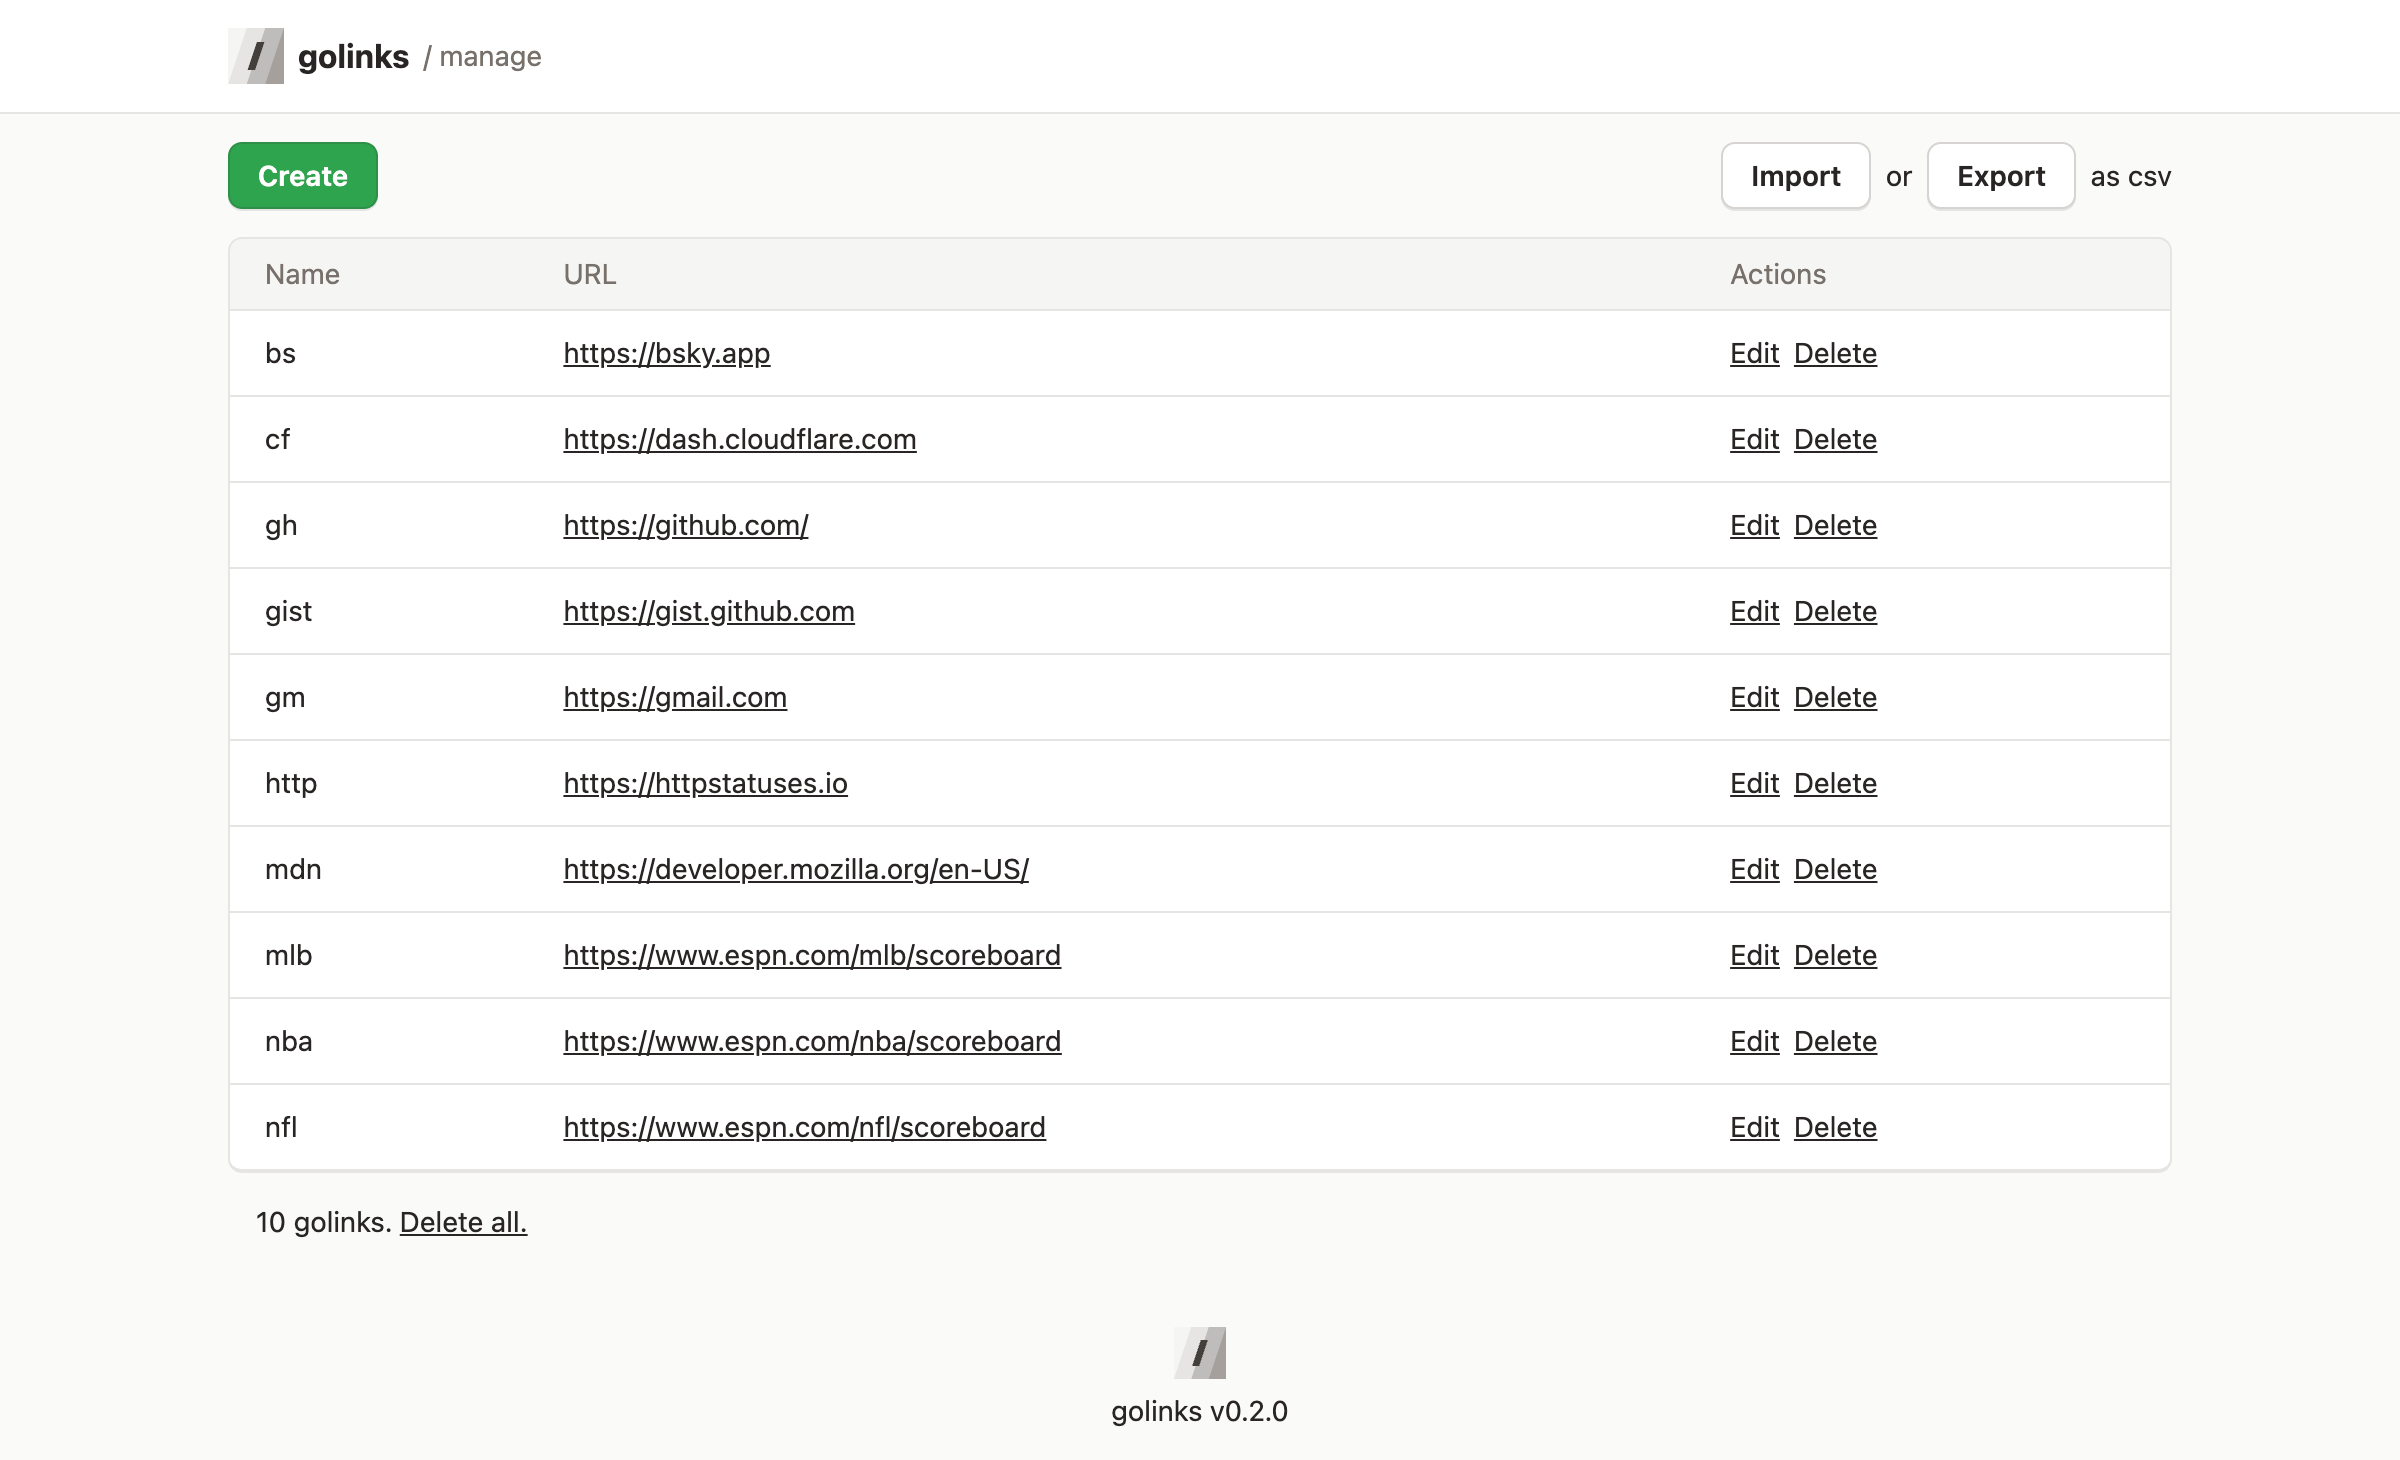
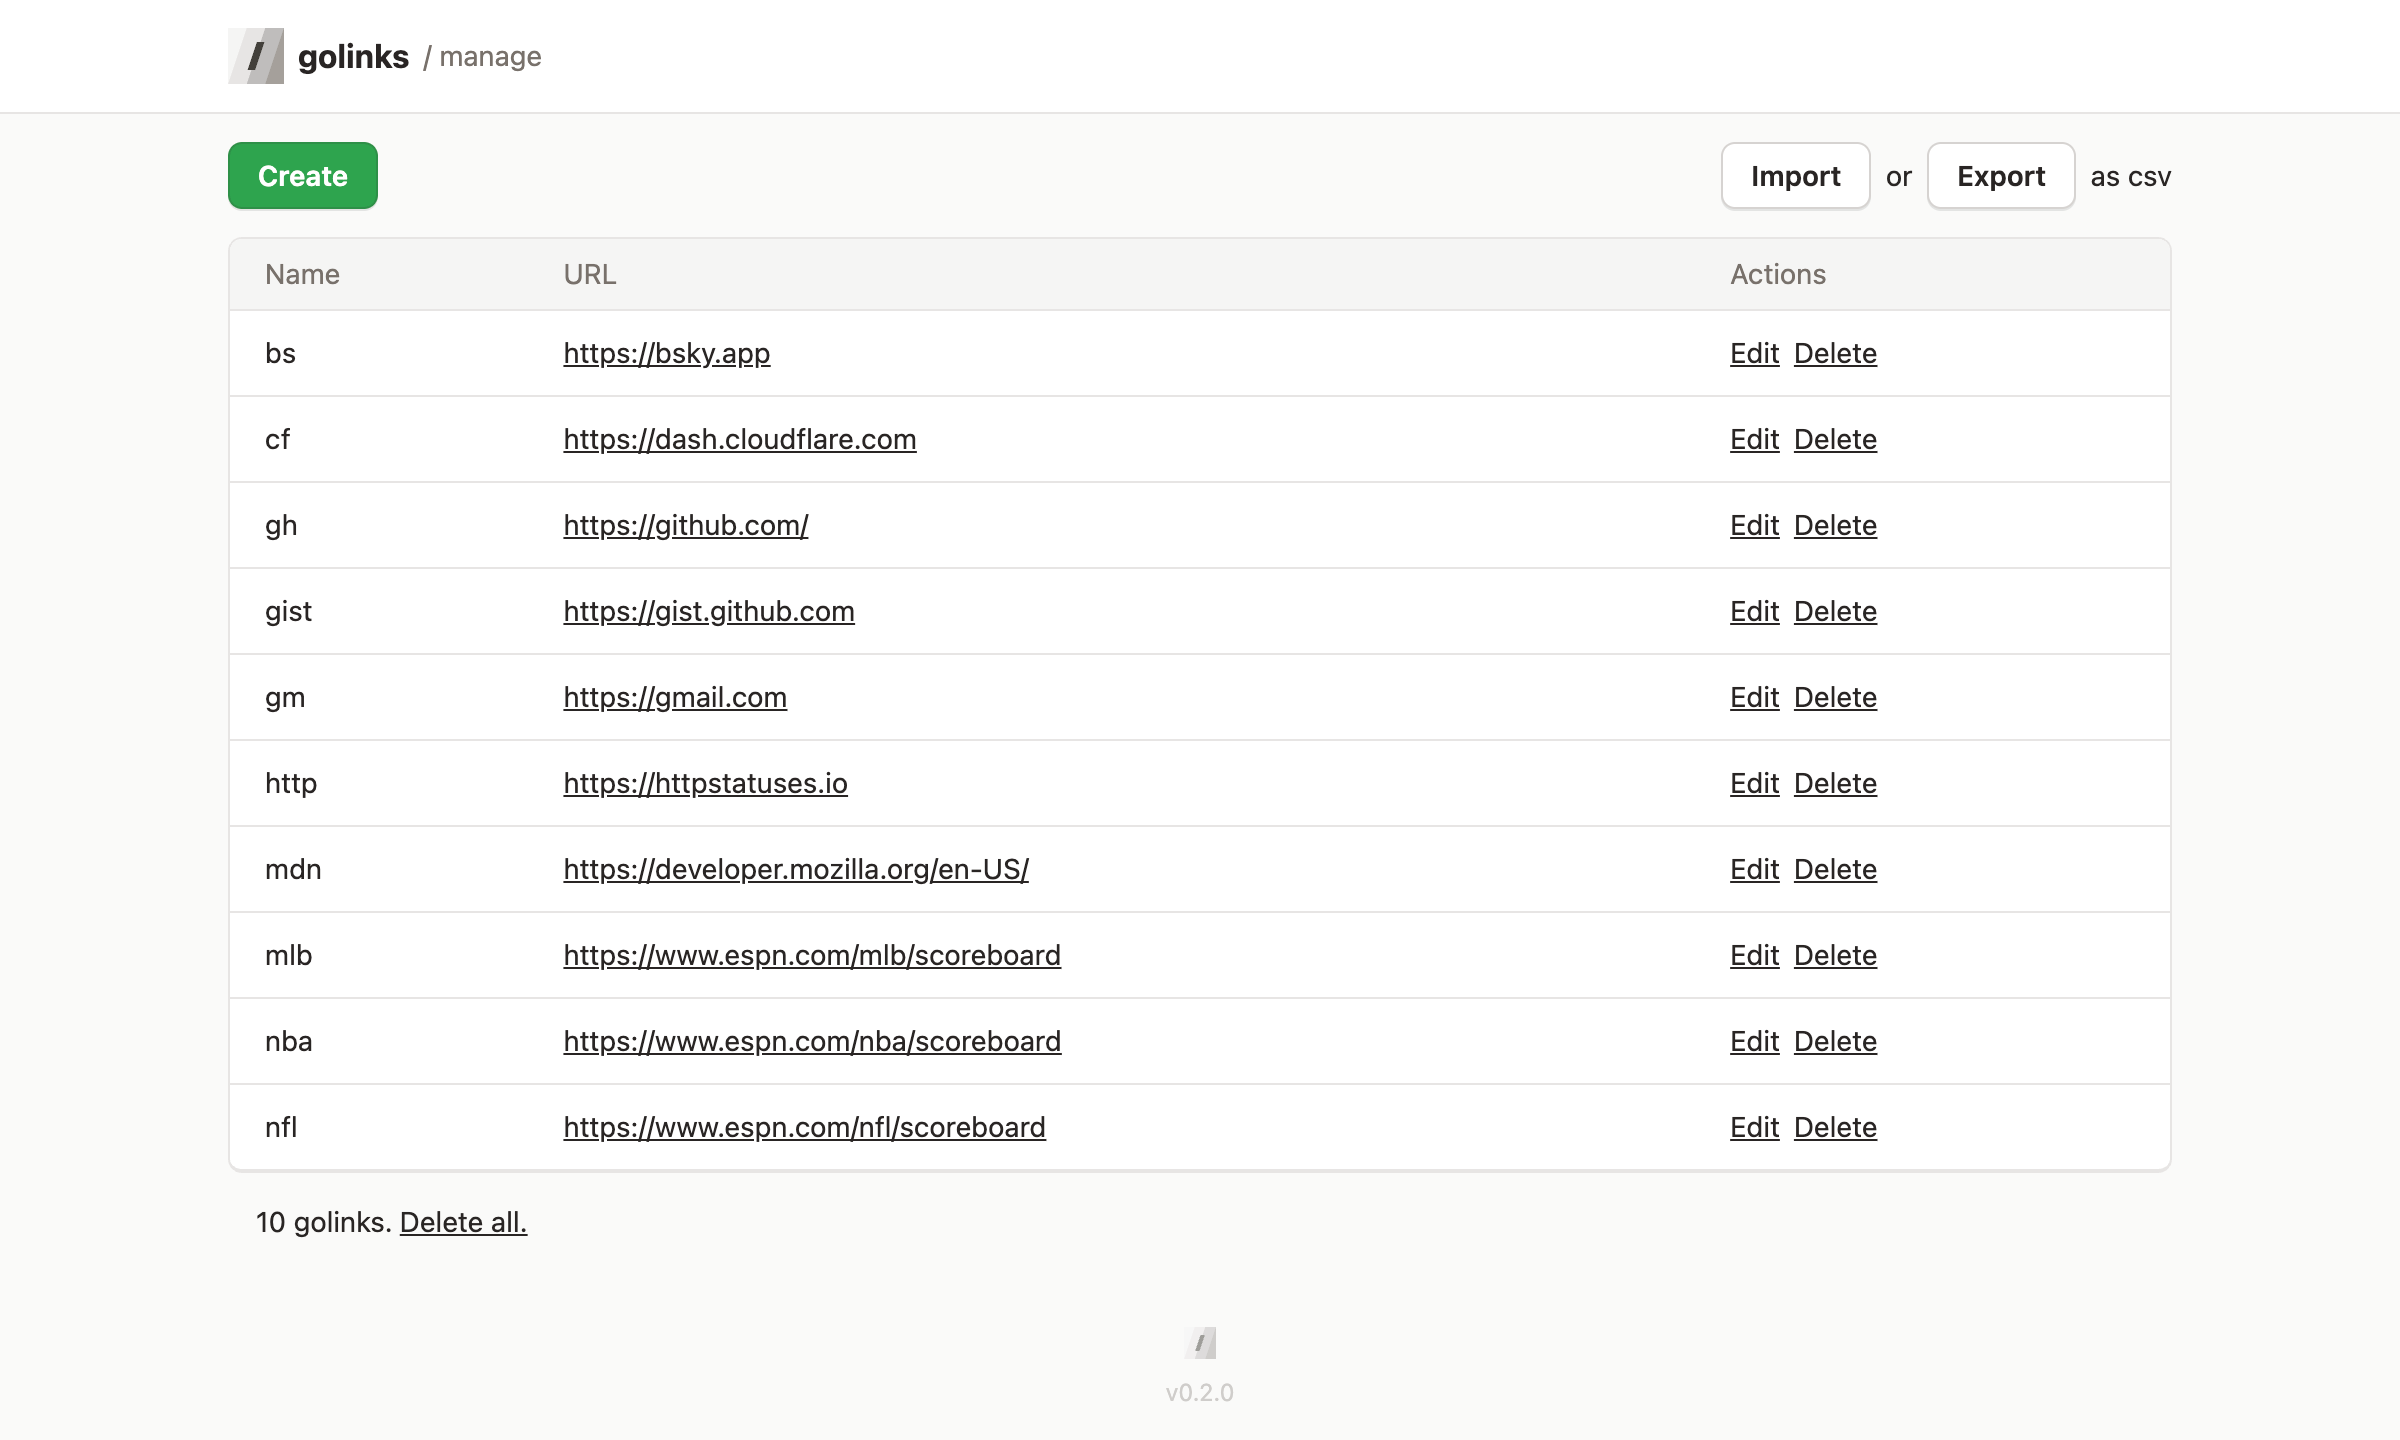
rework site footer

diff --git a/pages/styles.css b/pages/styles.css
@@ -164,6 +164,7 @@ input.input-attached {
 .nowrap { white-space: nowrap; }
 .word-break-all { word-break: break-all; }
 
+.font-12 { font-size: 12px; }
 .font-16 { font-size: 16px; }
 
 .decoration-none { text-decoration: none; }
@@ -173,6 +174,9 @@ input.input-attached {
 
 .w-full { width: 100%; }
 .h-40 { height: 40px; }
+
+.o-50 { opacity: .5; }
+.hover-o-100:hover { opacity: 1; }
 
 .flex { display: flex; }
 .flex-center  { justify-content:center; align-items:center; }
@@ -186,6 +190,7 @@ input.input-attached {
 .font-bold { font-weight: 700; }
 
 .text-black { color: var(--black); }
+.text-stone-400 { color: var(--stone-400); }
 .text-stone-500 { color: var(--stone-500); }
 
 .bg-white { background-color: var(--white); }

diff --git a/pages/index.html b/pages/index.html
@@ -37,11 +37,11 @@
       </table>
       <section class="golink-table--footer flex justify-center items-center mt-3 pl-3 pr-3 w-full"></section>
     </section>
-    <div class="mt-4 text-center">
-      <a href="https://github.com/jkulton/golinks" class="text-stone-500 hover-underline">
-        <img src="../images/icon.svg" width="26"/>
+    <div class="mt-4 mb-3 flex flex-center flex-column hover-underline o-50 hover-o-100">
+      <a href="https://github.com/jkulton/golinks" class="text-stone-500">
+        <img src="../images/icon.svg" width="16" height="16"/>
       </a>
+      <div class="site-footer text-stone-500"></div>
     </div>
-    <div class="site-footer text-center mb-3"></div>
   </body>
 </html>

diff --git a/pages/index.js b/pages/index.js
@@ -79,12 +79,12 @@ document.addEventListener('DOMContentLoaded', function () {
     }
 
     function renderSiteFooter() {
-        const { name, version, homepage_url } = chrome.runtime.getManifest();
+        const { version, homepage_url } = chrome.runtime.getManifest();
         const footerLink = document.createElement('a');
         footerLink.href = homepage_url;
         footerLink.target = '_blank';
-        footerLink.textContent = `${name} v${version}`;
-        footerLink.className = 'decoration-none hover-underline';
+        footerLink.textContent = `v${version}`;
+        footerLink.className = 'decoration-none text-stone-400 font-12';
         siteFooter.appendChild(footerLink);
     }
 
